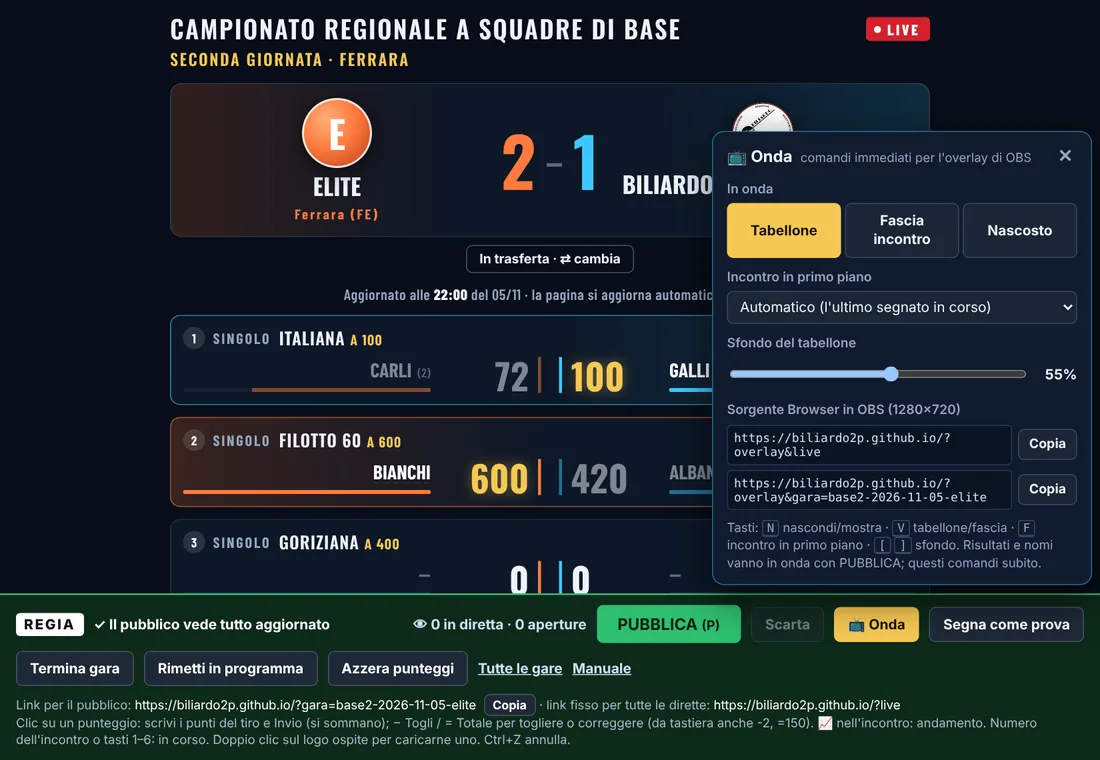
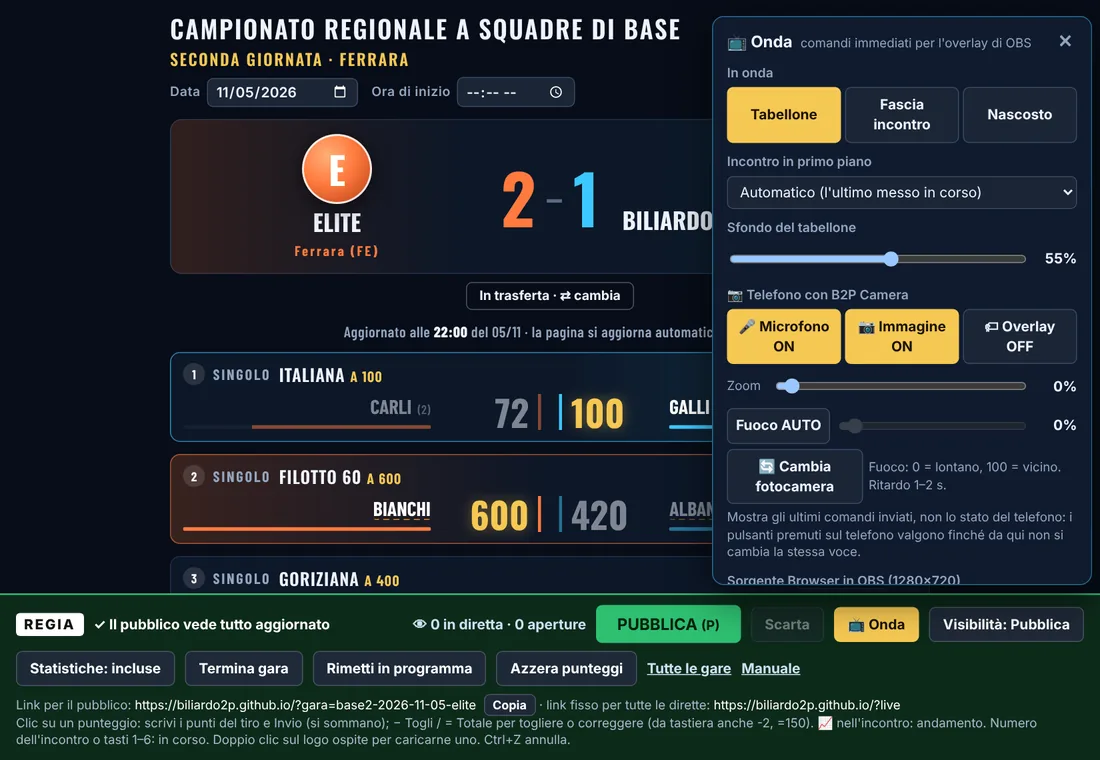
Pannello Onda: comandi per il telefono con l'app B2P Camera (nodo camera); manuale; versione 2026110901
Claude-Session: https://claude.ai/code/session_013Bh35CNDGDysMaFfNKdNZG

diff --git a/js/overlay.js b/js/overlay.js
@@ -287,6 +287,7 @@ function ondaPaint(){
     ${pages.length>1 ? `<div class="og"><span>Pagina del tabellone</span><div class="two"><select data-o="pag"><option value="">Automatica</option>${pages.map(pg=>`<option value="${pg.key}"${o.pag===pg.key ? " selected" : ""}>${esc(pg.title)}</option>`).join("")}</select>
       <select data-o="ciclo" title="Rotazione automatica delle pagine (con pagina Automatica)">${[[0,"Ferma"],[10,"Ruota ogni 10 s"],[15,"Ruota ogni 15 s"],[20,"Ruota ogni 20 s"],[30,"Ruota ogni 30 s"]].map(([v,t])=>`<option value="${v}"${(+o.ciclo||0)===v ? " selected" : ""}>${t}</option>`).join("")}</select></div></div>` : ""}
     <div class="og"><span>Sfondo del tabellone</span><div class="two"><input type="range" min="0" max="1" step="0.05" value="${o.bga ?? .55}" data-o="bga"><b>${Math.round((o.bga ?? .55)*100)}%</b></div></div>
+    ${camHTML()}
     <div class="og lk"><span>Sorgente Browser in OBS (1280×720)</span>
       <div class="two"><code>${esc(pub)}?overlay&amp;live</code><button data-o="copy:live">Copia</button></div>
       <div class="two"><code>${esc(pub)}?overlay&amp;gara=${esc(GARA)}</code><button data-o="copy:gara">Copia</button></div>
@@ -297,19 +298,55 @@ function ondaPaint(){
     <p class="hint">Tasti: <kbd>N</kbd> nascondi/mostra · <kbd>V</kbd> tabellone/fascia · <kbd>F</kbd> incontro in primo piano · <kbd>[</kbd> <kbd>]</kbd> sfondo. Risultati e nomi vanno in onda con PUBBLICA; questi comandi subito.</p>`;
 }
 function ondaToggle(){
-  ondaOpen = !ondaOpen; ondaWatch();
+  ondaOpen = !ondaOpen; ondaWatch(); camWatch();
   let p = document.getElementById("ondap");
   if(!p){ p = document.createElement("div"); p.id = "ondap"; p.setAttribute("role", "dialog"); p.setAttribute("aria-label", "Comandi dell'overlay"); document.body.appendChild(p);
     p.addEventListener("click", e=>{ const b = e.target.closest("[data-o]"); if(!b || b.tagName==="SELECT" || b.tagName==="INPUT") return; const [k, v] = b.dataset.o.split(":");
       if(k==="x"){ ondaToggle(); renderBar(); }
       else if(k==="v") ondaSet({v});
+      else if(k==="cam") camClick(v);
       else if(k==="copy"){ const t = (PUBLIC_URL || pageURL("")) + (v==="live" ? "?overlay&live" : v==="mini" ? "?overlay&mini&live" : v==="riep" ? "?overlay&riepilogo&live" : "?overlay&gara=" + GARA);
         try{ navigator.clipboard.writeText(t).then(()=>setFlash("Indirizzo per OBS copiato"), ()=>setFlash(t)); }catch(err){ setFlash(t); } } });
     p.addEventListener("change", e=>{ const k = e.target.dataset.o; if(!k) return;
-      if(k==="primo") ondaSet({primo:+e.target.value}); else if(k==="pag") ondaSet({pag:e.target.value}); else if(k==="ciclo") ondaSet({ciclo:+e.target.value}); else if(k==="bga") ondaSet({bga:+e.target.value}); });
-    p.addEventListener("input", e=>{ if(e.target.dataset.o==="bga"){ const b = e.target.parentNode.querySelector("b"); if(b) b.textContent = Math.round(e.target.value*100) + "%"; } });
+      if(k==="primo") ondaSet({primo:+e.target.value}); else if(k==="pag") ondaSet({pag:e.target.value}); else if(k==="ciclo") ondaSet({ciclo:+e.target.value}); else if(k==="bga") ondaSet({bga:+e.target.value});
+      else if(k==="camz" || k==="camf"){ camDrag = false; camSet(k==="camz" ? "zoom" : "fuoco", +e.target.value); } });
+    p.addEventListener("input", e=>{ const k = e.target.dataset.o;
+      if(k==="bga"){ const b = e.target.parentNode.querySelector("b"); if(b) b.textContent = Math.round(e.target.value*100) + "%"; }
+      else if(k==="camz" || k==="camf") camInput(k==="camz" ? "zoom" : "fuoco", e.target); });
   }
   ondaPaint();
+}
+/* ================= regia: telefono con l'app B2P Camera (nodo camera, uno solo per tutte le gare) =================
+   L'app Android ascolta il nodo camera e applica solo il comando indicato da k (con t nuovo): così all'avvio non riprende
+   comandi vecchi e i pulsanti premuti sul telefono restano validi finché la regia non manda un comando su quella voce.
+   camera = {mic, cam, ov, af: true/false, zoom, fuoco: 0-100, gira: contatore, k: ultima voce cambiata, t: ora}.
+   Il pannello mostra gli ultimi comandi inviati, non lo stato reale del telefono. Dal 09/11/2026. */
+let C = null, camOn = false, camErr = "", camLast = 0, camDrag = false;   /* camDrag: cursore in movimento, niente ridisegno del pannello */
+const CAM0 = {mic:true, cam:true, ov:false, af:true, zoom:0, fuoco:0, gira:0};
+const camO = () => Object.assign({}, CAM0, C || {});
+function camWatch(){ if(camOn || !db) return; camOn = true;
+  db.ref("camera").on("value", s=>{ C = s.val() || null; if(!camDrag) ondaPaint(); }, ()=>{ camErr = "Non riesco a leggere il nodo camera: aggiungilo alle regole del database."; ondaPaint(); }); }
+async function camSet(k, val, paint = true){
+  const n = Object.assign(camO(), {[k]: val, k, t: Date.now()}); C = n;
+  try{ await dbWrite({camera: n}); camErr = ""; }
+  catch(err){ camErr = err && err.code==="PERMISSION_DENIED" ? "Comando non inviato: Firebase lo rifiuta. Aggiungi il nodo camera alle regole del database (vedi manuale, Dirette video)." : "Comando non inviato: controlla la connessione."; }
+  if(paint) ondaPaint(); if(camErr) setFlash(camErr);
+}
+function camClick(v){ const c = camO();
+  if(v==="mic" || v==="cam" || v==="ov" || v==="af") camSet(v, !c[v]);
+  else if(v==="gira") camSet("gira", (+c.gira || 0) + 1); }
+/* cursori: mentre si trascina, un comando ogni 300 ms (il valore finale lo manda "change") */
+function camInput(k, el){ const b = el.parentNode.querySelector("b"); if(b) b.textContent = el.value + "%";
+  camDrag = true; const now = Date.now();
+  if(now - camLast > 300){ camLast = now; camSet(k, +el.value, false); } }
+function camHTML(){ const c = camO(), sw = (k, on, t1, t0) => `<button data-o="cam:${k}" class="${on ? "on" : ""}">${on ? t1 : t0}</button>`;
+  return `<div class="og cam"><span>📷 Telefono con B2P Camera</span>
+      <div class="seg">${sw("mic", c.mic, "🎤 Microfono ON", "🎤 Microfono OFF")}${sw("cam", c.cam, "📷 Immagine ON", "📷 Nero")}${sw("ov", c.ov, "🏷 Overlay ON", "🏷 Overlay OFF")}</div>
+      <div class="two"><small>Zoom</small><input type="range" min="0" max="100" step="1" value="${+c.zoom || 0}" data-o="camz"><b>${+c.zoom || 0}%</b></div>
+      <div class="two"><button data-o="cam:af" class="${c.af ? "" : "on"}">${c.af ? "Fuoco AUTO" : "Fuoco MAN"}</button><input type="range" min="0" max="100" step="1" value="${+c.fuoco || 0}" data-o="camf"${c.af ? " disabled" : ""}><b>${+c.fuoco || 0}%</b></div>
+      <div class="two"><button data-o="cam:gira">🔄 Cambia fotocamera</button><small>Fuoco: 0 = lontano, 100 = vicino. Ritardo 1–2 s.</small></div>
+      ${camErr ? `<p class="err">${esc(camErr)}</p>` : ""}
+      <small>Mostra gli ultimi comandi inviati, non lo stato del telefono: i pulsanti premuti sul telefono valgono finché da qui non si cambia la stessa voce.</small></div>`;
 }
 document.addEventListener("keydown", e=>{
   if(!editor || mode!=="board" || e.ctrlKey || e.metaKey || e.altKey) return;

diff --git a/manuale.html b/manuale.html
@@ -441,6 +441,7 @@ assente
 <tr><td>Incontro in primo piano</td><td><kbd>F</kbd></td><td>Quale incontro va nella fascia. Automatico = quello in corso; se sono più d'uno, l'ultimo messo in corso. Scegliendone uno resta fisso; F passa al successivo tra quelli in corso (è il modo per mostrare gli altri biliardi).</td></tr>
 <tr><td>Pagina del tabellone</td><td></td><td>Solo tornei con batterie: pagina fissa, automatica, oppure rotazione ogni 10–30 secondi.</td></tr>
 <tr><td>Sfondo del tabellone</td><td><kbd>[</kbd> <kbd>]</kbd></td><td>Più pieno o più trasparente.</td></tr>
+<tr><td>📷 Telefono con B2P Camera</td><td></td><td>Comandi per il telefono che trasmette con l'app B2P Camera: microfono, immagine, overlay, zoom, fuoco, cambio fotocamera (vedi più sotto).</td></tr>
 </table>
 <p>Il pannello mostra anche gli indirizzi da incollare in OBS, con il pulsante Copia.</p>
 <figure class="sh"><img src="img/manuale/regia-onda.webp" alt="Pannello Onda nella regia" loading="lazy" width="1100" height="760"><figcaption>Il pannello 📺 Onda aperto nella regia</figcaption></figure>
@@ -463,6 +464,20 @@ assente
   <li>I due widget sono indipendenti: si possono posizionare come si vuole (ad esempio la fascia in alto e il riepilogo a tutto schermo).</li>
 </ul>
 <figure class="sh"><img src="img/manuale/overlay-mini.webp" alt="Mini-overlay sopra l'immagine della telecamera" loading="lazy" width="1280" height="720"><figcaption>Mini-overlay: fascia in basso con l'incontro in corso (qui due incontri a rotazione, con <code>&amp;rot</code>)</figcaption></figure>
+<h3>Diretta dal telefono con l'app B2P Camera</h3>
+<p><b>B2P Camera</b> è l'app Android del circolo per trasmettere dalla fotocamera del telefono a YouTube o Facebook, senza pubblicità né watermark (si installa a mano; istruzioni e codice nella cartella <code>App B2P Camera</code>). Fa in un'app sola quello che con PRISM richiedeva due widget:</p>
+<ul>
+  <li><span class="btn">🏷 Overlay</span> mette sopra il video la fascia (<code>?overlay&amp;mini&amp;live</code>) e il riepilogo (<code>?overlay&amp;riepilogo&amp;live</code>), già impostati in ⚙. Il tasto <kbd>V</kbd> del pannello 📺 Onda li alterna come in PRISM. In ⚙ la spunta “Segui le gare di prova” aggiunge <code>&amp;prova</code> e salvando la pagina si ricarica (niente più <code>&amp;r=N</code>).</li>
+  <li>Sul telefono: microfono e immagine accesi/spenti (spenta = in diretta va il nero, l'audio continua), zoom, fuoco automatico (tocca l'immagine) o manuale, cambio fotocamera.</li>
+</ul>
+<p><b>Telefono comandato dalla regia.</b> Nel pannello 📺 Onda c'è la sezione <b>📷 Telefono con B2P Camera</b>: microfono, immagine/nero, overlay, zoom, fuoco automatico o manuale e cambio fotocamera. Il telefono riceve il comando in 1–2 secondi, da qualunque rete (anche con i dati mobili); in alto a sinistra sullo schermo del telefono compare “📡 Regia collegata” e l'ultimo comando ricevuto.</p>
+<ul>
+  <li>Il pannello mostra gli ultimi comandi inviati, non lo stato del telefono: se sul telefono si preme un pulsante, quello vale finché dalla regia non si cambia la stessa voce.</li>
+  <li>All'accensione il telefono non ripete i comandi vecchi: parte con le sue impostazioni e segue solo i comandi nuovi.</li>
+  <li>Non c'è un'anteprima: per zoom e fuoco si guarda la diretta, che arriva con qualche secondo di ritardo. Meglio muovere i cursori a piccoli passi.</li>
+  <li>I comandi si possono spegnere sul telefono: ⚙ → “Accetta comandi dalla regia”.</li>
+</ul>
+<figure class="sh"><img src="img/manuale/regia-onda-camera.webp" alt="Sezione Telefono con B2P Camera nel pannello Onda" loading="lazy" width="1100" height="760"><figcaption>Pannello 📺 Onda: i comandi per il telefono con B2P Camera</figcaption></figure>
 <p><b>Preparare un PC personale (una volta sola):</b></p>
 <ol>
   <li>Installa <b>OBS Studio</b> (obsproject.com). Nella configurazione guidata scegli “Ottimizza per lo streaming”, servizio <b>YouTube - RTMPS</b> e <b>Usa chiave di streaming</b>.</li>
@@ -544,6 +559,8 @@ assente
   <dd>Mancano i nodi <code>giocatori</code>, <code>circoli</code> e <code>squadre</code> nelle regole del database, oppure le regole sono state pubblicate con la pagina già aperta. La pagina riprova da sola ogni 5 secondi; altrimenti ricarica.</dd>
   <dt>“Pubblicazione rifiutata”.</dt>
   <dd>L'utente non è autorizzato dalle regole, oppure la sessione è scaduta: torna a Tutte le gare, premi Esci e rientra.</dd>
+  <dt>Pannello Onda: “Comando non inviato: Firebase lo rifiuta. Aggiungi il nodo camera…”.</dt>
+  <dd>Le regole del database pubblicate non hanno ancora il nodo <code>camera</code>: incolla in Firebase il file <code>regole_database.json</code> aggiornato e premi Pubblica (sezione Amministrazione). Se invece il telefono mostra “📡 Regia: non collegata”, controlla che abbia la rete.</dd>
   <dt>Il pubblico non vede un punteggio che ho inserito.</dt>
   <dd>Controlla la barra di regia: se dice “Modifiche NON ancora pubblicate”, premi PUBBLICA.</dd>
   <dt>Un nome è sottolineato in arancione.</dt>
@@ -557,6 +574,11 @@ assente
 
 <section id="novita" class="chg">
 <h2><span class="n">15</span>Novità</h2>
+<h3>9 novembre 2026</h3>
+<ul>
+  <li>Nuova app Android <b>B2P Camera</b> per le dirette dal telefono, con fascia e riepilogo del sito sopra il video, senza pubblicità né watermark.</li>
+  <li>Pannello 📺 Onda: nuova sezione <b>📷 Telefono con B2P Camera</b> per comandare il telefono dalla regia (microfono, immagine, overlay, zoom, fuoco, cambio fotocamera). Richiede il nodo <code>camera</code> nelle regole del database.</li>
+</ul>
 <h3>8 novembre 2026</h3>
 <ul>
   <li>Corretto: dopo aver cambiato data o ora di inizio in regia, il pulsante PUBBLICA restava arancione anche dopo la pubblicazione.</li>

diff --git a/index.html b/index.html
@@ -17,12 +17,12 @@
 <meta name="apple-mobile-web-app-title" content="Live 2P">
 <link rel="preconnect" href="https://fonts.gstatic.com" crossorigin>
 <link rel="stylesheet" href="https://fonts.googleapis.com/css2?family=Barlow+Condensed:wght@500;600;700;800&family=Oswald:wght@600;700&display=swap">
-<link rel="stylesheet" href="css/base.css?v=2026110809">
-<link rel="stylesheet" href="css/elenco-regia.css?v=2026110809">
-<link rel="stylesheet" href="css/torneo.css?v=2026110809">
-<link rel="stylesheet" href="css/set-andamento.css?v=2026110809">
-<link rel="stylesheet" href="css/anagrafica.css?v=2026110809">
-<link rel="stylesheet" href="css/overlay.css?v=2026110809">
+<link rel="stylesheet" href="css/base.css?v=2026110901">
+<link rel="stylesheet" href="css/elenco-regia.css?v=2026110901">
+<link rel="stylesheet" href="css/torneo.css?v=2026110901">
+<link rel="stylesheet" href="css/set-andamento.css?v=2026110901">
+<link rel="stylesheet" href="css/anagrafica.css?v=2026110901">
+<link rel="stylesheet" href="css/overlay.css?v=2026110901">
 </head>
 <body>
 <div id="app"></div>
@@ -69,22 +69,22 @@
 <div id="sug" hidden role="listbox" aria-label="Giocatori"></div>
 <script src="https://www.gstatic.com/firebasejs/10.12.2/firebase-app-compat.js"></script>
 <script src="https://www.gstatic.com/firebasejs/10.12.2/firebase-database-compat.js"></script>
-<script src="js/config.js?v=2026110809"></script>
-<script src="js/formule.js?v=2026110809"></script>
-<script src="js/util.js?v=2026110809"></script>
-<script src="js/gara.js?v=2026110809"></script>
-<script src="js/dati.js?v=2026110809"></script>
-<script src="js/vista-gara.js?v=2026110809"></script>
-<script src="js/vista-elenco.js?v=2026110809"></script>
-<script src="js/render.js?v=2026110809"></script>
-<script src="js/interazioni.js?v=2026110809"></script>
-<script src="js/anagrafica.js?v=2026110809"></script>
-<script src="js/nomi.js?v=2026110809"></script>
-<script src="js/controllo-nomi.js?v=2026110809"></script>
-<script src="js/giocatori.js?v=2026110809"></script>
-<script src="js/overlay.js?v=2026110809"></script>
-<script src="js/regia-barra.js?v=2026110809"></script>
-<script src="js/avvio.js?v=2026110809"></script>
+<script src="js/config.js?v=2026110901"></script>
+<script src="js/formule.js?v=2026110901"></script>
+<script src="js/util.js?v=2026110901"></script>
+<script src="js/gara.js?v=2026110901"></script>
+<script src="js/dati.js?v=2026110901"></script>
+<script src="js/vista-gara.js?v=2026110901"></script>
+<script src="js/vista-elenco.js?v=2026110901"></script>
+<script src="js/render.js?v=2026110901"></script>
+<script src="js/interazioni.js?v=2026110901"></script>
+<script src="js/anagrafica.js?v=2026110901"></script>
+<script src="js/nomi.js?v=2026110901"></script>
+<script src="js/controllo-nomi.js?v=2026110901"></script>
+<script src="js/giocatori.js?v=2026110901"></script>
+<script src="js/overlay.js?v=2026110901"></script>
+<script src="js/regia-barra.js?v=2026110901"></script>
+<script src="js/avvio.js?v=2026110901"></script>
 
 </body>
 </html>

diff --git a/css/overlay.css b/css/overlay.css
@@ -250,5 +250,10 @@ body.ovm > *:not(#app){display:none!important}
 #ondap .lk small{color:#93a5bf;font-size:12.5px}
 #ondap .hint{color:#93a5bf;font-size:12.5px;margin:0}
 #ondap .err{color:#ff8a8a;margin:0}
+#ondap .cam .two small{color:#93a5bf;font-size:12.5px}
+#ondap .cam .two>small:first-child{min-width:3.2em}
+#ondap .cam>small{color:#93a5bf;font-size:12.5px}
+#ondap .cam .two button.on{background:#f6c853;border-color:#f6c853;color:#1a1205}
+#ondap input[type=range]:disabled{opacity:.4}
 #ondap kbd{font:12px ui-monospace,Consolas,monospace;border:1px solid #3b4a63;border-bottom-width:2px;border-radius:3px;padding:0 4px}
 #rbar button.ondab.on{background:#f6c853;border-color:#f6c853;color:#1a1205}
